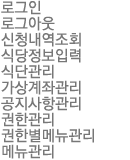
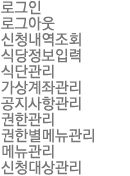
식당정보 수정 및 우편변호 추가

Changed region(s): [[0.0, 0.0, 0.7385, 1.0], [0.1231, 0.0, 0.1846, 0.0312]]

diff --git a/admin/admin_info_manage.html b/admin/admin_info_manage.html
@@ -38,124 +38,66 @@
 					<li><a href="#" class="menu08">권한관리</a></li>
 					<li><a href="#" class="menu09">권한별메뉴관리</a></li>
 					<li><a href="#" class="menu10">메뉴관리</a></li>
+					<li><a href="#" class="menu11">신청대상관리</a></li>
 				</ul>
 			</div>
 			<div id="section">
 				<div class="ctn_bg_admin">페이지별 이미지 배경</div>
 				<h2><img src="../src/images/ctn_title06.gif" alt="식당정보관리" /></h2>
-				<table class="view_srch">
-					<tr>
-						<th>모집구분</th>
-						<td>
-							<select id="year" name="year" style="width:85px">
-								<option>2012</option>
-							</select>
-							<select id="term" name="term" style="width:85px">
-								<option>2학기</option>
-							</select>
-						</td>
-						<th>선택식</th>
-						<td class="last">
-							<select id="whole" name="whole" style="width:85px">
-								<option>--전체--</option>
-							</select>
-						</td>
-					</tr>
-					<tr>
-						<th>입금여부</th>
-						<td>
-							<select id="payment" name="payment" style="width:50px">
-								<option>Y</option>
-							</select>
-						</td>
-						<th>검색조건</th>
-						<td class="last">
-							<select id="name" name="name" style="width:85px">
-								<option>이름</option>
-							</select>
-							<label for="name_srch">이름검색</label>
-							<input type="text" name="" id="name_srch" value="" maxlength="15" size="20"/>
-						</td>
-					</tr>
-				</table>
-				<p class="views_btn"><input type="image" id="btn_views" src="../src/images/btn_views.gif" alt="조회"/></p>
-				<table class="view_table view_manage">
-					<colgroup>
-						<col width="82" />
-						<col width="79" />
-						<col width="70" />
-						<col width="92" />
-						<col width="102" />
-						<col width="71" />
-						<col width="173" />
-						<col width="90" />
-					</colgroup>
-					<thead>
-						<tr>
-							<th class="first">지점코드</th>
-							<th>지점명</th>
-							<th>지정장명</th>
-							<th>지점 연락처</th>
-							<th>지점장 핸드폰</th>
-							<th>우편번호</th>
-							<th>지점주소</th>
-							<th>등록일자</th>
-						</tr>
-					</thead>
+				<table class="app_input regi_input app_complete">
 					<tbody>
 						<tr>
-							<td>FAX10</td>
-							<td>고려대학교</td>
-							<td>여지영</td>
-							<td>02-3290-1814</td>
-							<td>010-0000-0000</td>
-							<td>152-111</td>
-							<td>서울시 성북구 안암로 145 고려대학교 안암학사</td>
-							<td>2013-01-11<br/>오전 11:10:22</td>
+							<th class="first"><label for="b_code">지점코드</label></th>
+							<td class="first"><input type="text" id="b_code" name="" size="27" maxlength="10" /></td>
 						</tr>
 						<tr>
-							<td>FAX10</td>
-							<td>고려대학교</td>
-							<td>여지영</td>
-							<td>02-3290-1814</td>
-							<td>010-0000-0000</td>
-							<td>152-111</td>
-							<td>서울시 성북구 안암로 145 고려대학교 안암학사</td>
-							<td>2013-01-11<br/>오전 11:10:22</td>
+							<th><label for="b_name">지점명</label></th>
+							<td><input type="text" id="b_name" name="" size="27" maxlength="25" /></td>
 						</tr>
 						<tr>
-							<td>FAX10</td>
-							<td>고려대학교</td>
-							<td>여지영</td>
-							<td>02-3290-1814</td>
-							<td>010-0000-0000</td>
-							<td>152-111</td>
-							<td>서울시 성북구 안암로 145 고려대학교 안암학사</td>
-							<td>2013-01-11<br/>오전 11:10:22</td>
+							<th><label for="b_manager">지점장 명</label></th>
+							<td><input type="text" id="b_manager" name="" size="27" maxlength="10" /></td>
 						</tr>
 						<tr>
-							<td>FAX10</td>
-							<td>고려대학교</td>
-							<td>여지영</td>
-							<td>02-3290-1814</td>
-							<td>010-0000-0000</td>
-							<td>152-111</td>
-							<td>서울시 성북구 안암로 145 고려대학교 안암학사</td>
-							<td>2013-01-11<br/>오전 11:10:22</td>
+							<th><label for="b_tel">지점 연락처</label></th>
+							<td><input type="text" id="b_tel" name="" size="27" maxlength="15" /></td>
 						</tr>
 						<tr>
-							<td>FAX10</td>
-							<td>고려대학교</td>
-							<td>여지영</td>
-							<td>02-3290-1814</td>
-							<td>010-0000-0000</td>
-							<td>152-111</td>
-							<td>서울시 성북구 안암로 145 고려대학교 안암학사</td>
-							<td>2013-01-11<br/>오전 11:10:22</td>
+							<th><label for="bm_mobile">지점장 핸드폰</label></th>
+							<td>
+								<select id="bm_mobile" style="width:50px;">
+									<option>010</option>
+								</select>
+								<span style="margin:0;color:#999;">-</span>
+								<input type="text" id="bm_mobile1" name="" size="8" maxlength="4" style="width:64px;"/>
+								<span style="margin:0;color:#999;">-</span>
+								<input type="text" id="bm_mobile2" name="" size="8" maxlength="4" style="width:64px;"/>
+							</td>
+		
+						</tr>
+						<tr>
+							<th><label for="branch_add">지점 주소</label></th>
+							<td>
+								<p>
+									<input type="text" id="zip1" name="" size="8" maxlength="3" class="bg_none" style="width:64px;"/> <span style="margin:0;color:#999;">-</span> 
+									<input type="text" id="zip2" name="" size="8" maxlength="3" class="bg_none" style="width:64px;"/> 
+									<input type="image" id="zipcode" src="../src/images/btn_zipcode.gif" alt="우편번호" />
+								</p>
+								<p class="mt10"><input type="text" id="add1" name="" size="42" maxlength="45" class="bg_none" style="width:265px;"/></p>
+								<p class="mt10"><input type="text" id="add2" name="" size="42" maxlength="45" style="width:265px;"/><span class="tag" style="margin:0 0 0 5px;color:#999;">(남은 주소를 빠짐없이 입력해 주세요)</span></p>
+							</td>
+						</tr>
+						<tr>
+							<th>로고 이미지</th>
+							<td><input type="file" id="b_logo" name="" /></td>
 						</tr>
 					</tbody>
 				</table>
-				<p class="views_btn"><a href="#" onclick="javascript:regiPop();"><img src="../src/images/btn_enrol.gif" alt="등록" ></a></p>		
+				<div class="app_input_btn regi_input_btn">
+					<input type="image" id="print" src="../src/images/btn_save.gif" alt="저장" />
+					<input type="image" id="print" src="../src/images/btn_del.gif" alt="삭제" />
+					<a href="" onclick="javascript:window.close();"><img src="../src/images/btn_close.gif" alt="닫기"/></a>
+				</div>
 			</div>
 		</div>
 	</div>

diff --git a/src/css/default.css b/src/css/default.css
@@ -29,6 +29,7 @@ a:link {color:#777777;text-decoration: none}
 a:visited {color:#777777;}
 a:hover {color:#f18101;}
 a:active {color:#777777;}
+input {padding-left:3px;}
 
 html,body {width:100%;height:100%;}
 #wrap {width:100%;height:100%;}
@@ -80,6 +81,7 @@ html,body {width:100%;height:100%;}
 #aside ul.admin_gnb li a.menu08 {background-position: 0 -112px}
 #aside ul.admin_gnb li a.menu09 {background-position: 0 -128px}
 #aside ul.admin_gnb li a.menu10 {background-position: 0 -144px}
+#aside ul.admin_gnb li a.menu11 {background-position: 0 -160px}
 
 /***********************************************************************************************************************************************
  * 컨텐츠 영역
@@ -125,6 +127,7 @@ background:url(../images/bg_two.png) no-repeat left top;}
 #section .app_input tbody td span {margin-left:20px;color:#f18101}
 #section .app_input tbody td p {margin-top:5px;font-size:11px;}
 #section .app_input_btn {margin-bottom:30px;text-align:center}
+#section .app_input tbody td input[type=file] {padding-left:5px;width:auto;height:20px;border:1px solid #cecece;background:#f8f8f8;font-size:12px;line-height:20px;}
 
 /*개인정보인증*/
 #section .app_complete th.first, 
@@ -327,6 +330,22 @@ background:url(../images/bg_one.png) no-repeat left top;}
 #file_pop form {margin-top:10px;padding:25px 30px;width:300px;background:#fafafa;border:1px solid #cecece;overflow:hidden;}
 #file_pop form label {margin-top:5px;color:#999999;display:block;}
 #file_pop input[type=file] {padding-left:5px;width:auto;height:23px;border:1px solid #cecece;background:#fff;font-size:12px;line-height:23px;}
+
+#zip_pop {margin:0 auto;padding:20px;width:360px;height:auto;color:#777777;overflow:hidden}
+#zip_pop p.box {margin-top:11px;padding-bottom:14px;width:100%;border-bottom:1px solid #ABAC16}
+#zip_pop form {padding:13px 10px;width:340px;overflow:hidden;}
+#zip_pop form p input {float:left;margin-top:11px;}
+#zip_pop form p label {display:none;}
+#zip_pop form input {margin-left:5px;}
+#zip_pop form input[type=radio] {margin-top:-2px;font-size:12px;vertical-align: middle;}
+#zip_pop form input[type=text] {padding-left:5px;width:auto;height:20px;border:1px solid #cecece;background:#f8f8f8;font-size:12px;line-height:20px;}
+
+#zip_pop .zip_list {padding:14px 10px 10px;width:340px;border-top:1px solid #E3E3E3;}
+#zip_pop .zip_list p strong {font-weight:bold;}
+#zip_pop .zip_list p em {color:#EE2E24;}
+#zip_pop .zip_list ul {margin-top:7px;padding:9px;width:322px;height:142px;border:1px solid #E3E3E3;overflow-y: scroll}
+#zip_pop .zip_list ul li {line-height:21px;}
+#zip_pop p.btn {text-align:center}
 
 /*print => 같은 html을 사용할 경우*/
 @media print {

diff --git a/admin/admin_zipcode.html b/admin/admin_zipcode.html
@@ -1,0 +1,46 @@
+<!DOCTYPE html PUBLIC "-//W3C//DTD XHTML 1.0 Transitional//EN" "http://www.w3.org/TR/xhtml1/DTD/xhtml1-transitional.dtd">
+<html xmlns="http://www.w3.org/1999/xhtml" xml:lang="en">
+<head>
+	<meta http-equiv="Content-Type" content="text/html;charset=UTF-8" />
+	<title>아워홈 | 식수신청프로그램</title>
+	<script type="text/javascript" src="../src/js/lib/jquery-1.8.3.min.js"></script>
+	<script type="text/javascript" src="../src/js/lib/jquery.easing.1.3.js"></script>
+	<script type="text/javascript" src="../src/js/ui.js"></script>
+	<link rel="stylesheet" href="../src/css/default.css" media="all"/>
+</head>
+<body>
+<div id="wrap">
+	<div id="zip_pop">
+		<p class="title"><img src="../src/images/app_title_11.gif" alt="우편번호 찾기"/></p>
+		<p class="box">주소지의 동(읍/면/리), 건물 등으로 검색하십시오</p>
+		<form>
+			<input type="radio" id="new" name="zip" value="1"/><label for="new">신 주소 확인</label>
+			<input type="radio" id="old" name="zip" value="2" /><label for="old">구 주소 확인</label>
+			<p>
+				<label for="zip_search">검색</label>
+				<input type="text" id="zip_search" size="30"/><input type="image" id="search_btn" src="../src/images/btn_search.gif" alt="검색"/>
+			</p>
+		</form>
+		<div class="zip_list">
+			<p><strong>검색결과</strong>(총 <em>10</em>건)</p>
+			<ul>
+				<li><a href="">서울시 금천구 가산동 111-1</a></li>
+				<li><a href="">서울시 금천구 가산동 111-1</a></li>
+				<li><a href="">서울시 금천구 가산동 111-1</a></li>
+				<li><a href="">서울시 금천구 가산동 111-1</a></li>
+				<li><a href="">서울시 금천구 가산동 111-1</a></li>
+				<li><a href="">서울시 금천구 가산동 111-1</a></li>
+				<li><a href="">서울시 금천구 가산동 111-1</a></li>
+				<li><a href="">서울시 금천구 가산동 111-1</a></li>
+				<li><a href="">서울시 금천구 가산동 111-1</a></li>
+				<li><a href="">서울시 금천구 가산동 111-1</a></li>
+			</ul>
+		</div>
+		<p class="mt10 btn">
+			<input type="image" id="" src="../src/images/btn_input.gif" alt="입력"/>
+			<input type="image" id="" src="../src/images/btn_cancle.gif" alt="취소"/>
+		</p>
+	</div>	
+</div>
+</body>
+</html>
